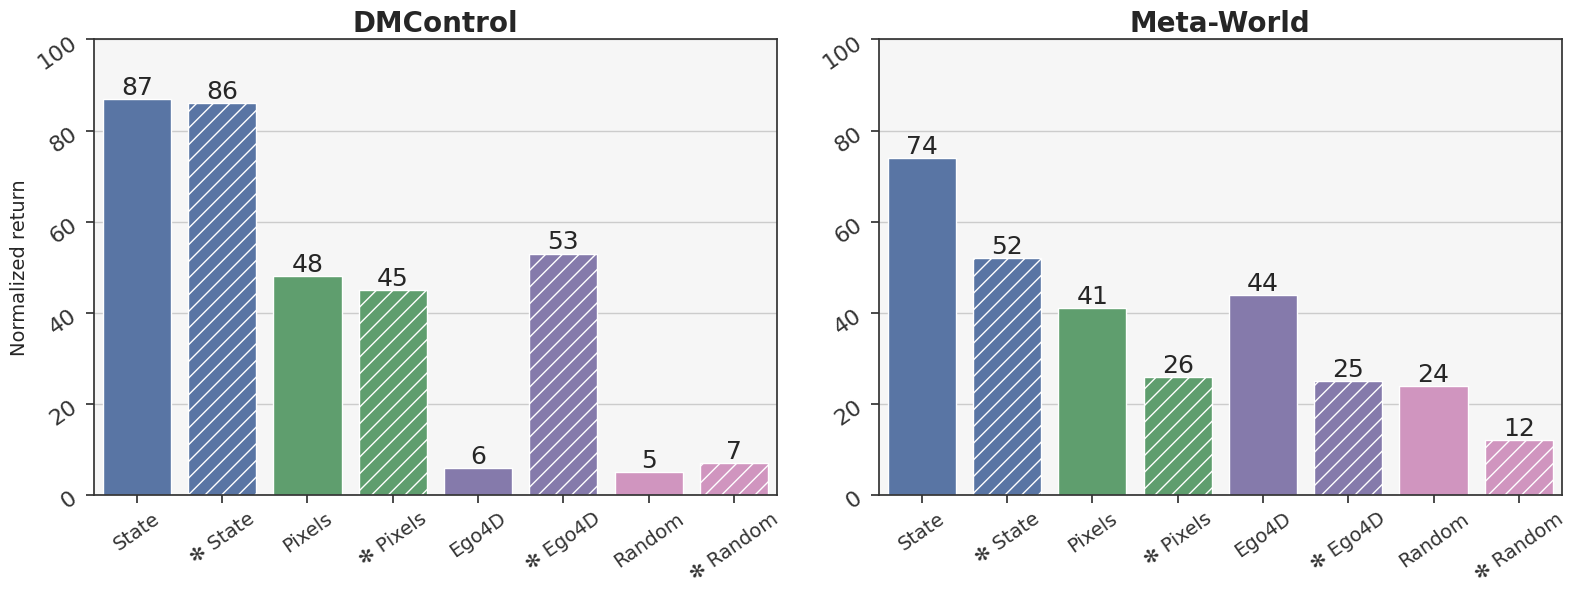
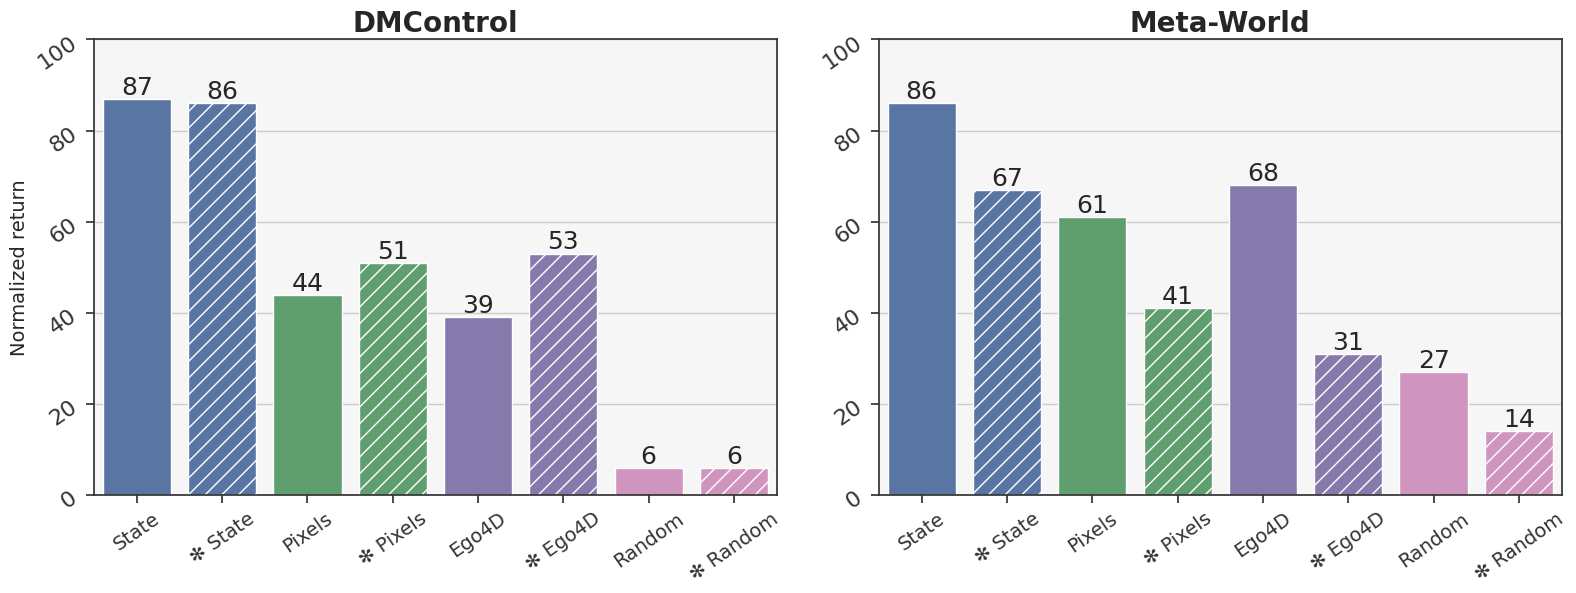
update tasklist

diff --git a/plot_singletask.py b/plot_singletask.py
@@ -22,7 +22,6 @@ DEFAULT_PLOT_RC = {
 	'ytick.color': '#333',
 }
 sns.set(style='whitegrid', rc=DEFAULT_PLOT_RC)
-# sns.set_context('paper')
 ENTITY = 'nihansen'
 PROJECT = 'tdmpc2'
 
@@ -30,7 +29,7 @@ PROJECT = 'tdmpc2'
 def main():
 	tasks = {
 		'dmcontrol': ['cup-catch', 'finger-spin', 'cheetah-run', 'walker-run', 'quadruped-run'],
-		'metaworld': ['mw-drawer-close', 'mw-hammer', 'mw-box-close', 'mw-pick-place', 'mw-shelf-place']
+		'metaworld': ['mw-drawer-close', 'mw-drawer-open', 'mw-hammer', 'mw-box-close', 'mw-pick-place']
 	}
 	exp_names = ['v1', 'offline-v1', 'mocoego-v1', 'mocoego-offline-v1', 'random-v1', 'random-offline-v1']
 	experiment2label = {
@@ -71,7 +70,7 @@ def main():
 			continue
 		key = 'offline/reward' if 'offline' in exp_name else 'eval/episode_reward'
 		hist = run.history(keys=[key], x_axis='_step')
-		if len(hist) < 1:
+		if len(hist) < 4:
 			continue
 		experiment = cfg['modality'] + '-' + exp_name
 		label = experiment2label[experiment]
@@ -99,9 +98,6 @@ def main():
 	df_metaworld['reward'] = (df_metaworld['reward'] / 45).round()
 
 	f, axs = plt.subplots(1, 2, figsize=(16,6))
-
-	# color palette
-	colors = sns.color_palette('colorblind', 4)
 
 	# dmcontrol
 	ax = axs[0]
